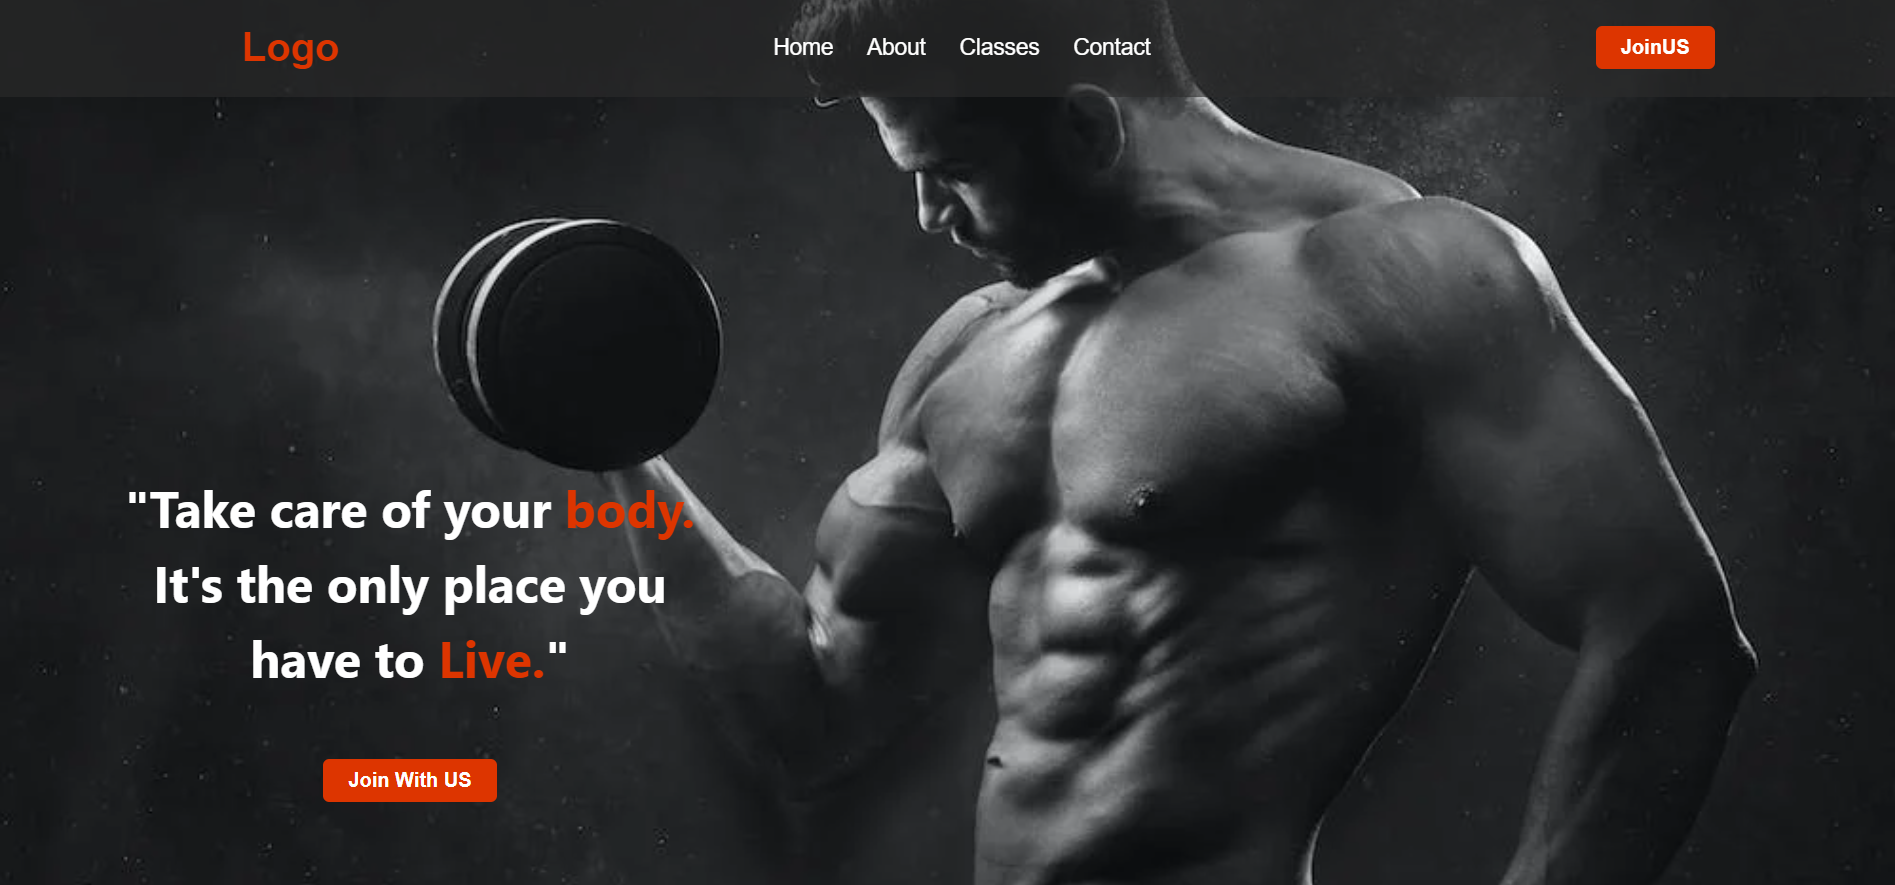
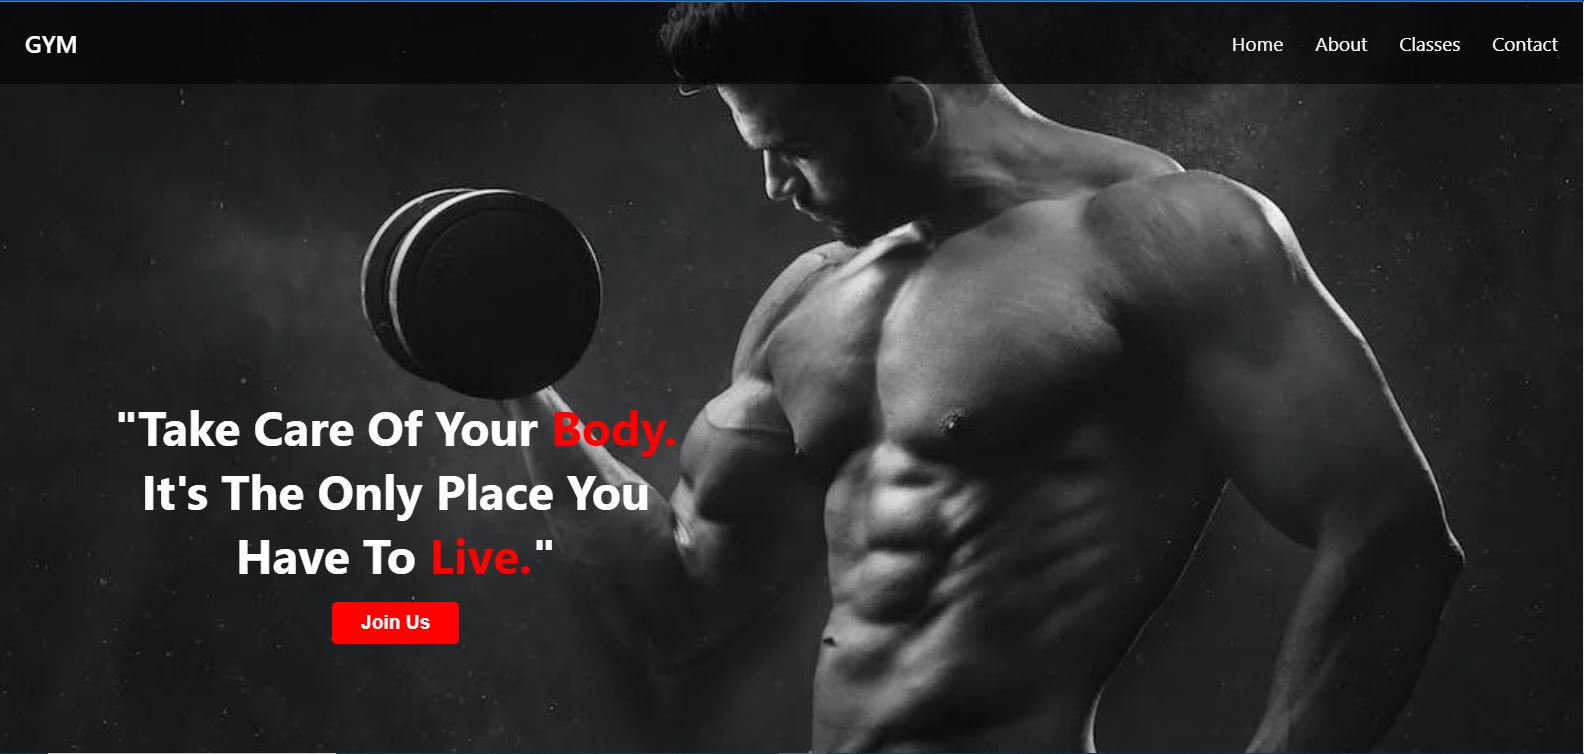
added gym image

diff --git a/src/Pages/Projects.js b/src/Pages/Projects.js
@@ -1,7 +1,7 @@
 import React from 'react'
 import './Projects.css'
 import Twitter from '../images/Twitter.png'
-import Gym from '../images/'
+import Gym from '../images/gym.png'
 import ProuctCart from '../images/ProductCart.png'
 import QRCode from '../images/QRCode.png'
 import Imdb from '../images/imdb.png'
